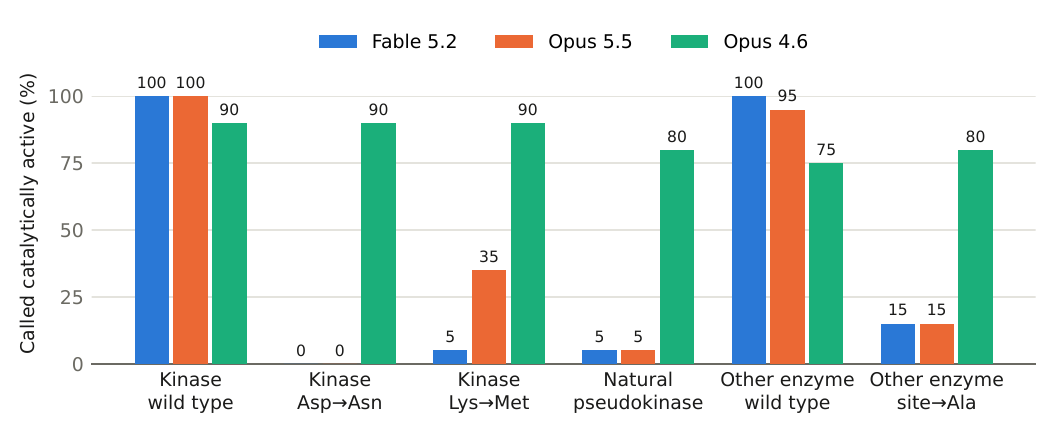
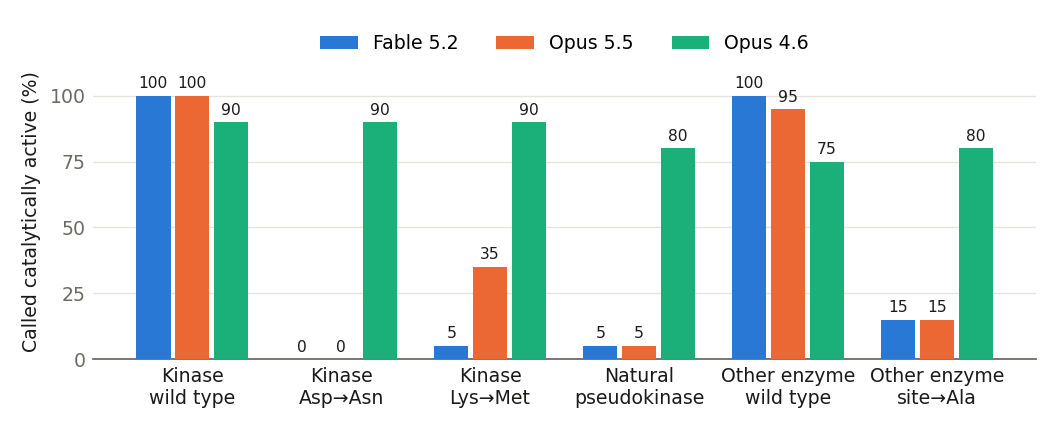
Keep the figure script here, add a history record, note access
Addresses the three review points on this pull request.

- The figure script reads only data that stays in this repository, so a
  copy is kept in projects/LLM_SEQUENCE_PROBE/figures/. It reads
  ../pseudo and ../structure and writes the two page figures as PNG at
  160 dots per inch. Both figures are regenerated with it, so the
  committed images are the script's own output. Values are unchanged;
  rendering differs slightly from the earlier copies.
- Adds the history record for this edit of the project page, made with
  the scaffolder and validated against the history schema.
- The page now says access to the draft's repository is on request.

diff --git a/projects/LLM_SEQUENCE_PROBE/figures/make_figures.py b/projects/LLM_SEQUENCE_PROBE/figures/make_figures.py
@@ -1,0 +1,76 @@
+"""Draw the two project-page figures from the committed model outputs. Usage: make_figures.py (no arguments).
+
+Reads ../pseudo/ and ../structure/ and writes fig1_pseudoenzyme.png and fig2_structure.png beside this file,
+at 160 dots per inch (1056 x 432 pixels). The manuscript repository keeps its own copy, which writes PDFs.
+"""
+import collections, json, math, pathlib, statistics
+import matplotlib; matplotlib.use("Agg")
+import matplotlib.pyplot as plt
+HERE = pathlib.Path(__file__).parent; ROOT = HERE.parent
+MODELS = [("claude-fable-5-2", "Fable 5.2", "#2a78d6"), ("claude-opus-5-5", "Opus 5.5", "#eb6834"), ("claude-opus-4-6", "Opus 4.6", "#1baf7a")]
+INK, MUTED, GRID = "#1a1a19", "#6b6a63", "#e4e3dd"
+plt.rcParams.update({"font.size": 8.5, "font.family": "DejaVu Sans", "axes.edgecolor": MUTED, "axes.labelcolor": INK, "xtick.color": INK,
+                     "ytick.color": MUTED, "axes.spines.top": False, "axes.spines.right": False, "pdf.fonttype": 42})
+def rows(path): return [json.loads(l) for l in open(path)]
+def bars(ax, groups, values, ymax, fmt="{:.0f}"):
+    w = 0.26
+    for k, (mid, label, col) in enumerate(MODELS):
+        xs = [i + (k - 1) * w for i in range(len(groups))]
+        ax.bar(xs, values[mid], w - 0.03, color=col, label=label, zorder=3)
+        for x, v in zip(xs, values[mid]): ax.text(x, v + ymax * 0.015, fmt.format(v), ha="center", va="bottom", fontsize=7, color=INK)
+    ax.set_xticks(range(len(groups))); ax.set_xticklabels(groups); ax.set_ylim(0, ymax); ax.tick_params(length=0)
+    ax.grid(axis="y", color=GRID, linewidth=0.6, zorder=0); ax.spines["left"].set_visible(False)
+
+# Figure 1: share of sequences called catalytically active, by sequence class
+T = {t["accession"]: t for t in json.loads((ROOT / "pseudo/truth.json").read_text())}
+classes = [("kinase", "wt", "Kinase\nwild type"), ("kinase", "asp_to_asn", "Kinase\nAsp→Asn"), ("kinase", "lys_to_met", "Kinase\nLys→Met"),
+           ("pseudo", "wt", "Natural\npseudokinase"), ("enzyme", "wt", "Other enzyme\nwild type"), ("enzyme", "site_to_ala", "Other enzyme\nsite→Ala")]
+vals = {}
+for mid, _, _ in MODELS:
+    c = collections.Counter(); n = collections.Counter()
+    for r in rows(ROOT / f"pseudo/results/{mid}.jsonl"):
+        key = (T[r["accession"]]["group"], r["variant"]); n[key] += 1
+        c[key] += str((r.get("ans") or {}).get("catalytically_active")).lower() == "yes"
+    vals[mid] = [100 * c[(g, v)] / n[(g, v)] for g, v, _ in classes]
+fig, ax = plt.subplots(figsize=(6.6, 2.7))
+bars(ax, [c[2] for c in classes], vals, 112); ax.set_yticks([0, 25, 50, 75, 100]); ax.set_ylabel("Called catalytically active (%)")
+ax.legend(frameon=False, ncol=3, loc="upper center", bbox_to_anchor=(0.5, 1.16))
+fig.tight_layout(); fig.savefig(HERE / "fig1_pseudoenzyme.png", dpi=160); plt.close(fig)
+
+# Figure 2: secondary structure and contact precision against deposited structures (ASPRV1 counted once)
+S = {t["pdb"]: t for t in json.loads((ROOT / "structure/truth.json").read_text())}
+DUP = {"27JP", "27JO", "27IQ"}
+def ss(n, h, e):
+    s = ["C"] * (n + 1)
+    for code, segs in (("H", h), ("E", e)):
+        for g in segs or []:
+            if isinstance(g, list) and len(g) == 2 and all(isinstance(v, int) for v in g):
+                for i in range(max(1, g[0]), min(n, g[1]) + 1): s[i] = code
+    return s
+q3 = {}; cp = {}; base = collections.defaultdict(list); chance = collections.defaultdict(list)
+for mid, _, _ in MODELS:
+    q = collections.defaultdict(list); p = collections.defaultdict(list)
+    for r in rows(ROOT / f"structure/results/{mid}.jsonl"):
+        t = S[r["pdb"]]; a = r.get("ans")
+        if r["pdb"] in DUP or not a: continue
+        L = len(t["sequence"]); ca = {int(k): v for k, v in t["ca"].items()}; tr, pr = ss(L, t["helices"], t["strands"]), ss(L, a.get("helices"), a.get("strands"))
+        q[t["stratum"]].append(100 * sum(tr[i] == pr[i] for i in ca) / len(ca))
+        pairs = [x for x in (a.get("contacts") or []) if isinstance(x, list) and len(x) == 2 and all(isinstance(v, int) for v in x)
+                 and abs(x[0] - x[1]) >= 24 and x[0] in ca and x[1] in ca]
+        if pairs: p[t["stratum"]].append(100 * sum(math.dist(ca[i], ca[j]) < 8 for i, j in pairs) / len(pairs))
+        if mid == MODELS[0][0]:
+            base[t["stratum"]].append(100 * max(sum(tr[i] == c for i in ca) for c in "HEC") / len(ca))
+            obs = sorted(ca); lr = [(i, j) for i in obs for j in obs if j - i >= 24]
+            chance[t["stratum"]].append(100 * sum(math.dist(ca[i], ca[j]) < 8 for i, j in lr) / len(lr))
+    q3[mid] = [statistics.mean(q[s]) for s in ("novel", "known")]; cp[mid] = [statistics.mean(p[s]) for s in ("novel", "known")]
+fig, axs = plt.subplots(1, 2, figsize=(6.6, 2.7))
+labels = ["Novel\n(no prior homolog)", "Known\n(prior homologs)"]
+for ax, v, ymax, ylab, ref, name in ((axs[0], q3, 100, "Secondary structure accuracy, Q3 (%)", base, "best single\nstate"),
+                                     (axs[1], cp, 62, "Long-range contact precision (%)", chance, "chance")):
+    bars(ax, labels, v, ymax, "{:.0f}"); ax.set_ylabel(ylab); ax.set_xlim(-0.55, 1.95)
+    for i, s in enumerate(("novel", "known")):
+        y = statistics.mean(ref[s]); ax.plot([i - 0.42, i + 0.42], [y, y], color=INK, linewidth=1, linestyle=(0, (3, 2)), zorder=4)
+    ax.text(1.47, statistics.mean(ref["known"]), name, ha="left", va="center", fontsize=7, color=MUTED)
+h, l = axs[0].get_legend_handles_labels(); fig.legend(h, l, frameon=False, ncol=3, loc="upper center")
+fig.tight_layout(rect=(0, 0, 1, 0.92)); fig.savefig(HERE / "fig2_structure.png", dpi=160); plt.close(fig)
+print({m: [round(x, 1) for x in v] for m, v in vals.items()}); print("Q3", q3); print("contacts", cp); print({k: round(statistics.mean(v), 1) for k, v in base.items()}, {k: round(statistics.mean(v), 1) for k, v in chance.items()})

diff --git a/projects/LLM_SEQUENCE_PROBE.md b/projects/LLM_SEQUENCE_PROBE.md
@@ -46,7 +46,7 @@ builds the test set, one that asks the models and one that scores the answers.
 
 A short preprint is being drafted from these results. The draft and its LaTeX
 source live in a separate repository, `ai4curation/fable-sequence-to-function`,
-which is private while the draft is in progress.
+which is private while the draft is in progress; ask the authors for access.
 
 ## Test 1: next amino acid (replication of the blog post)
 
